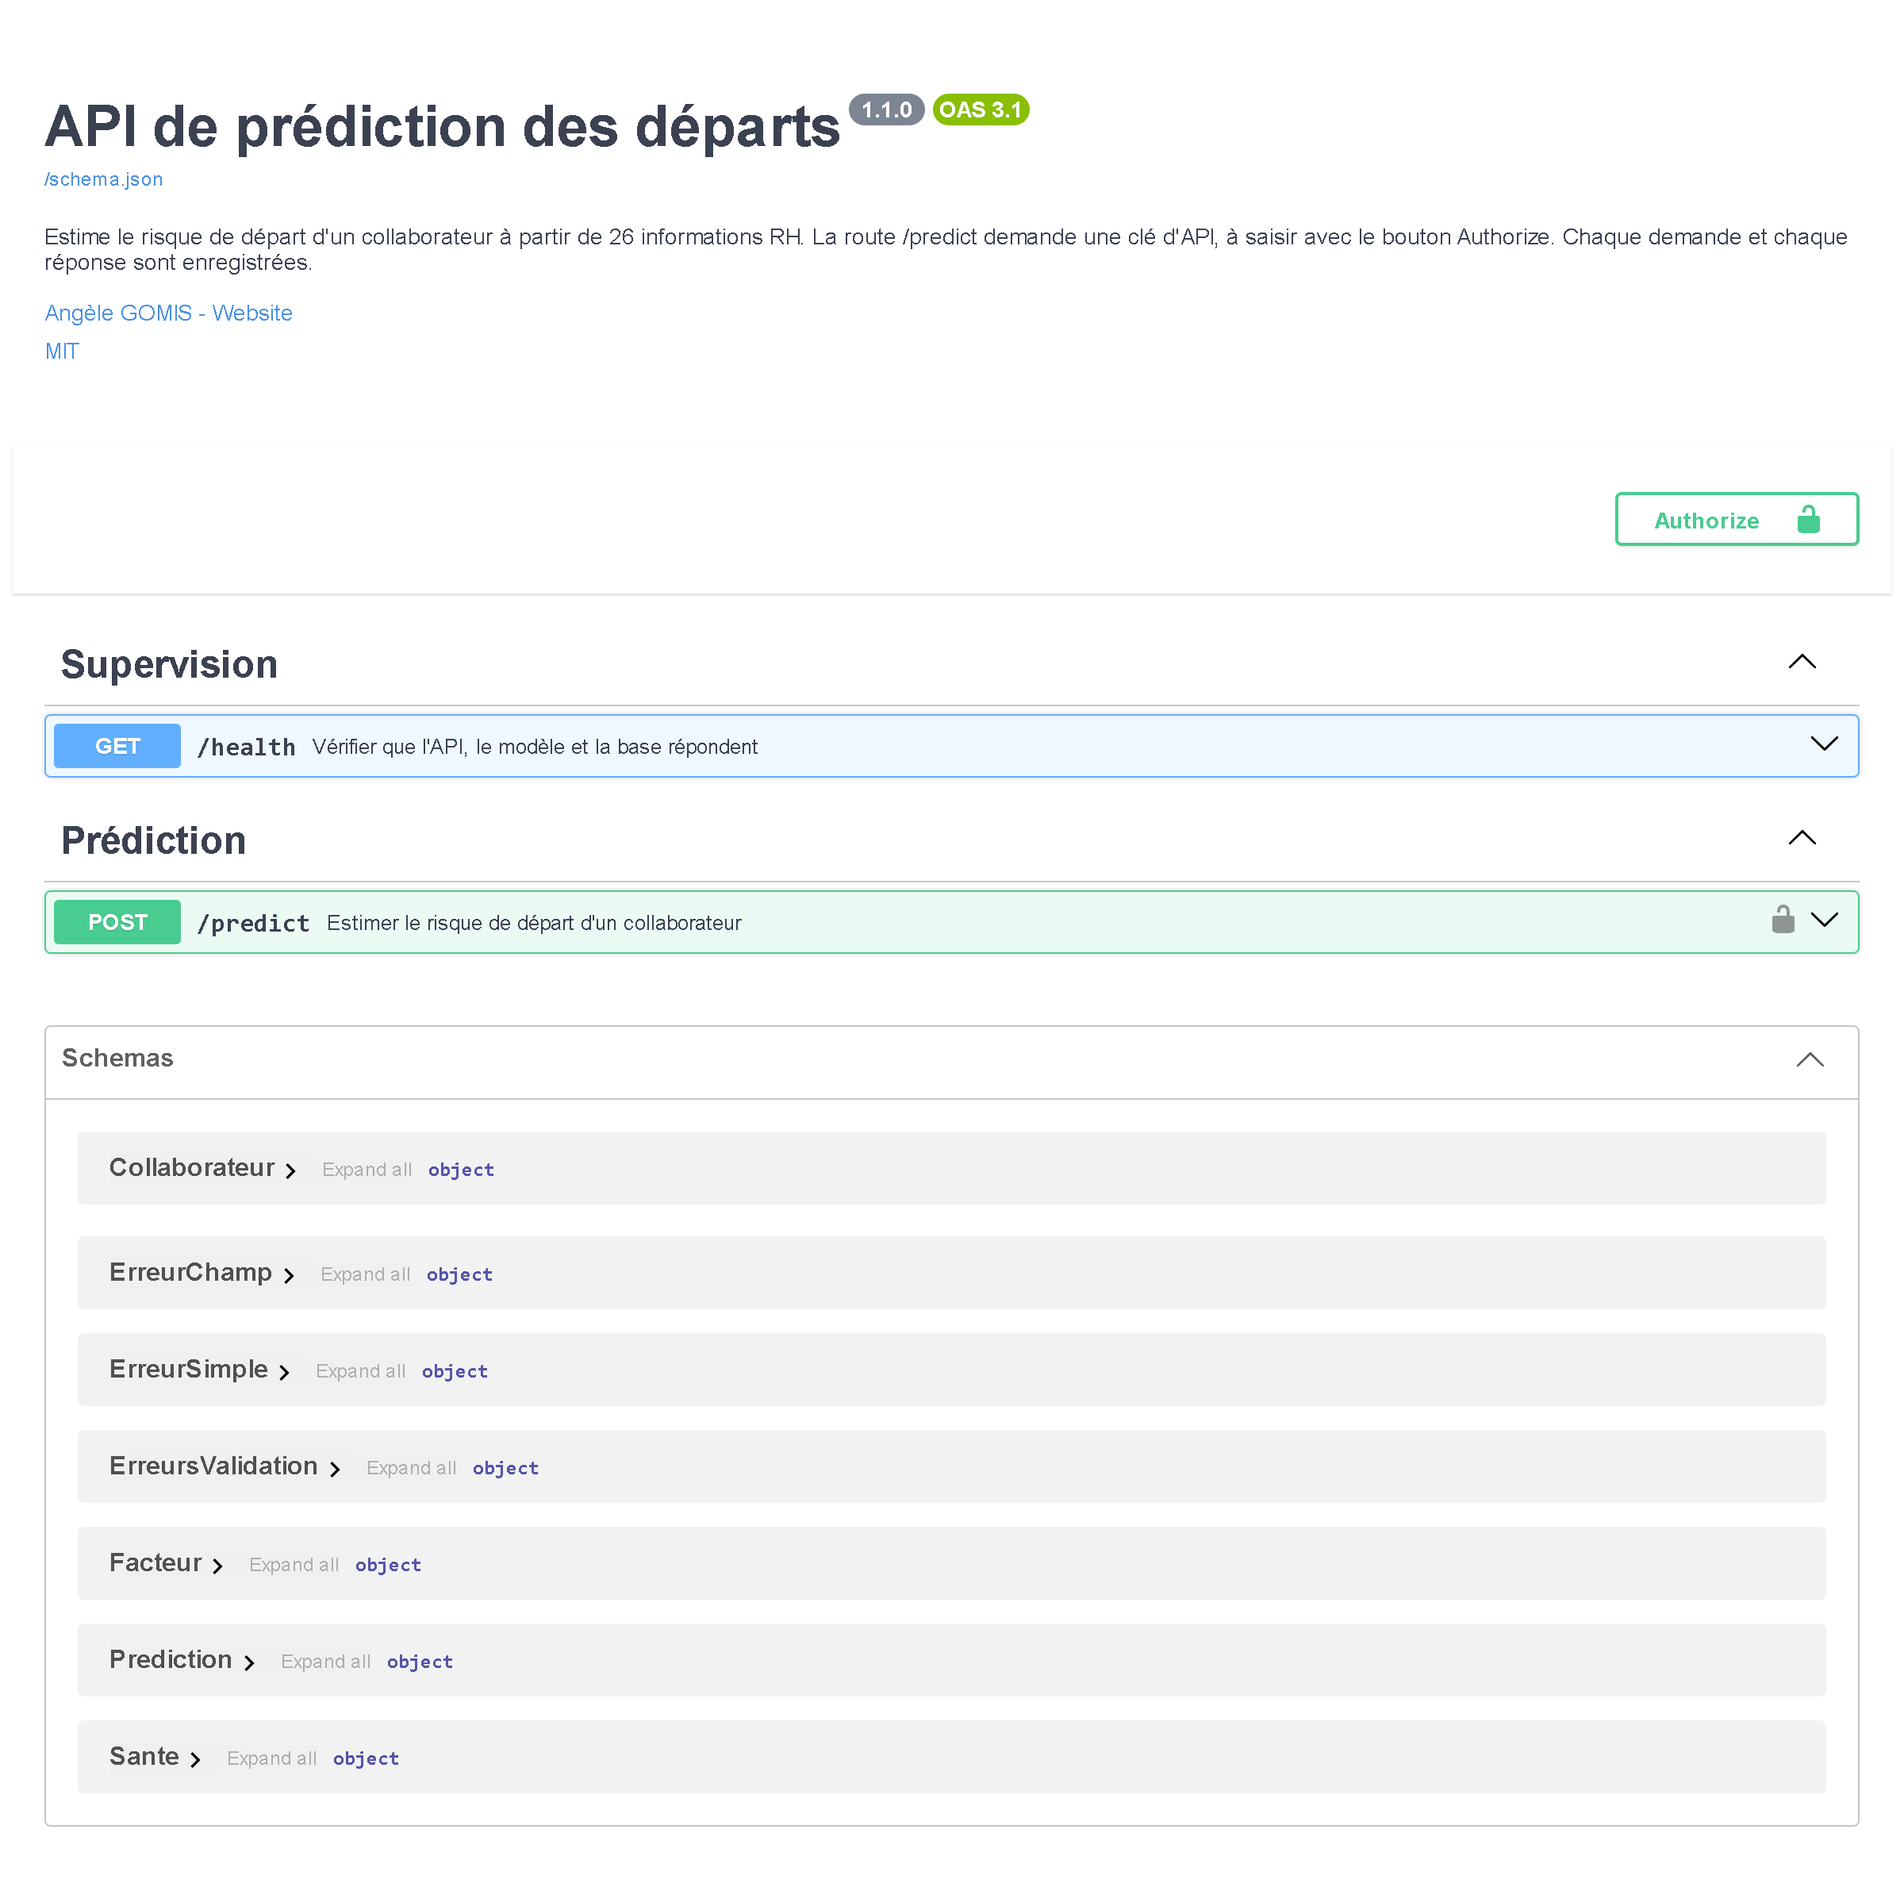
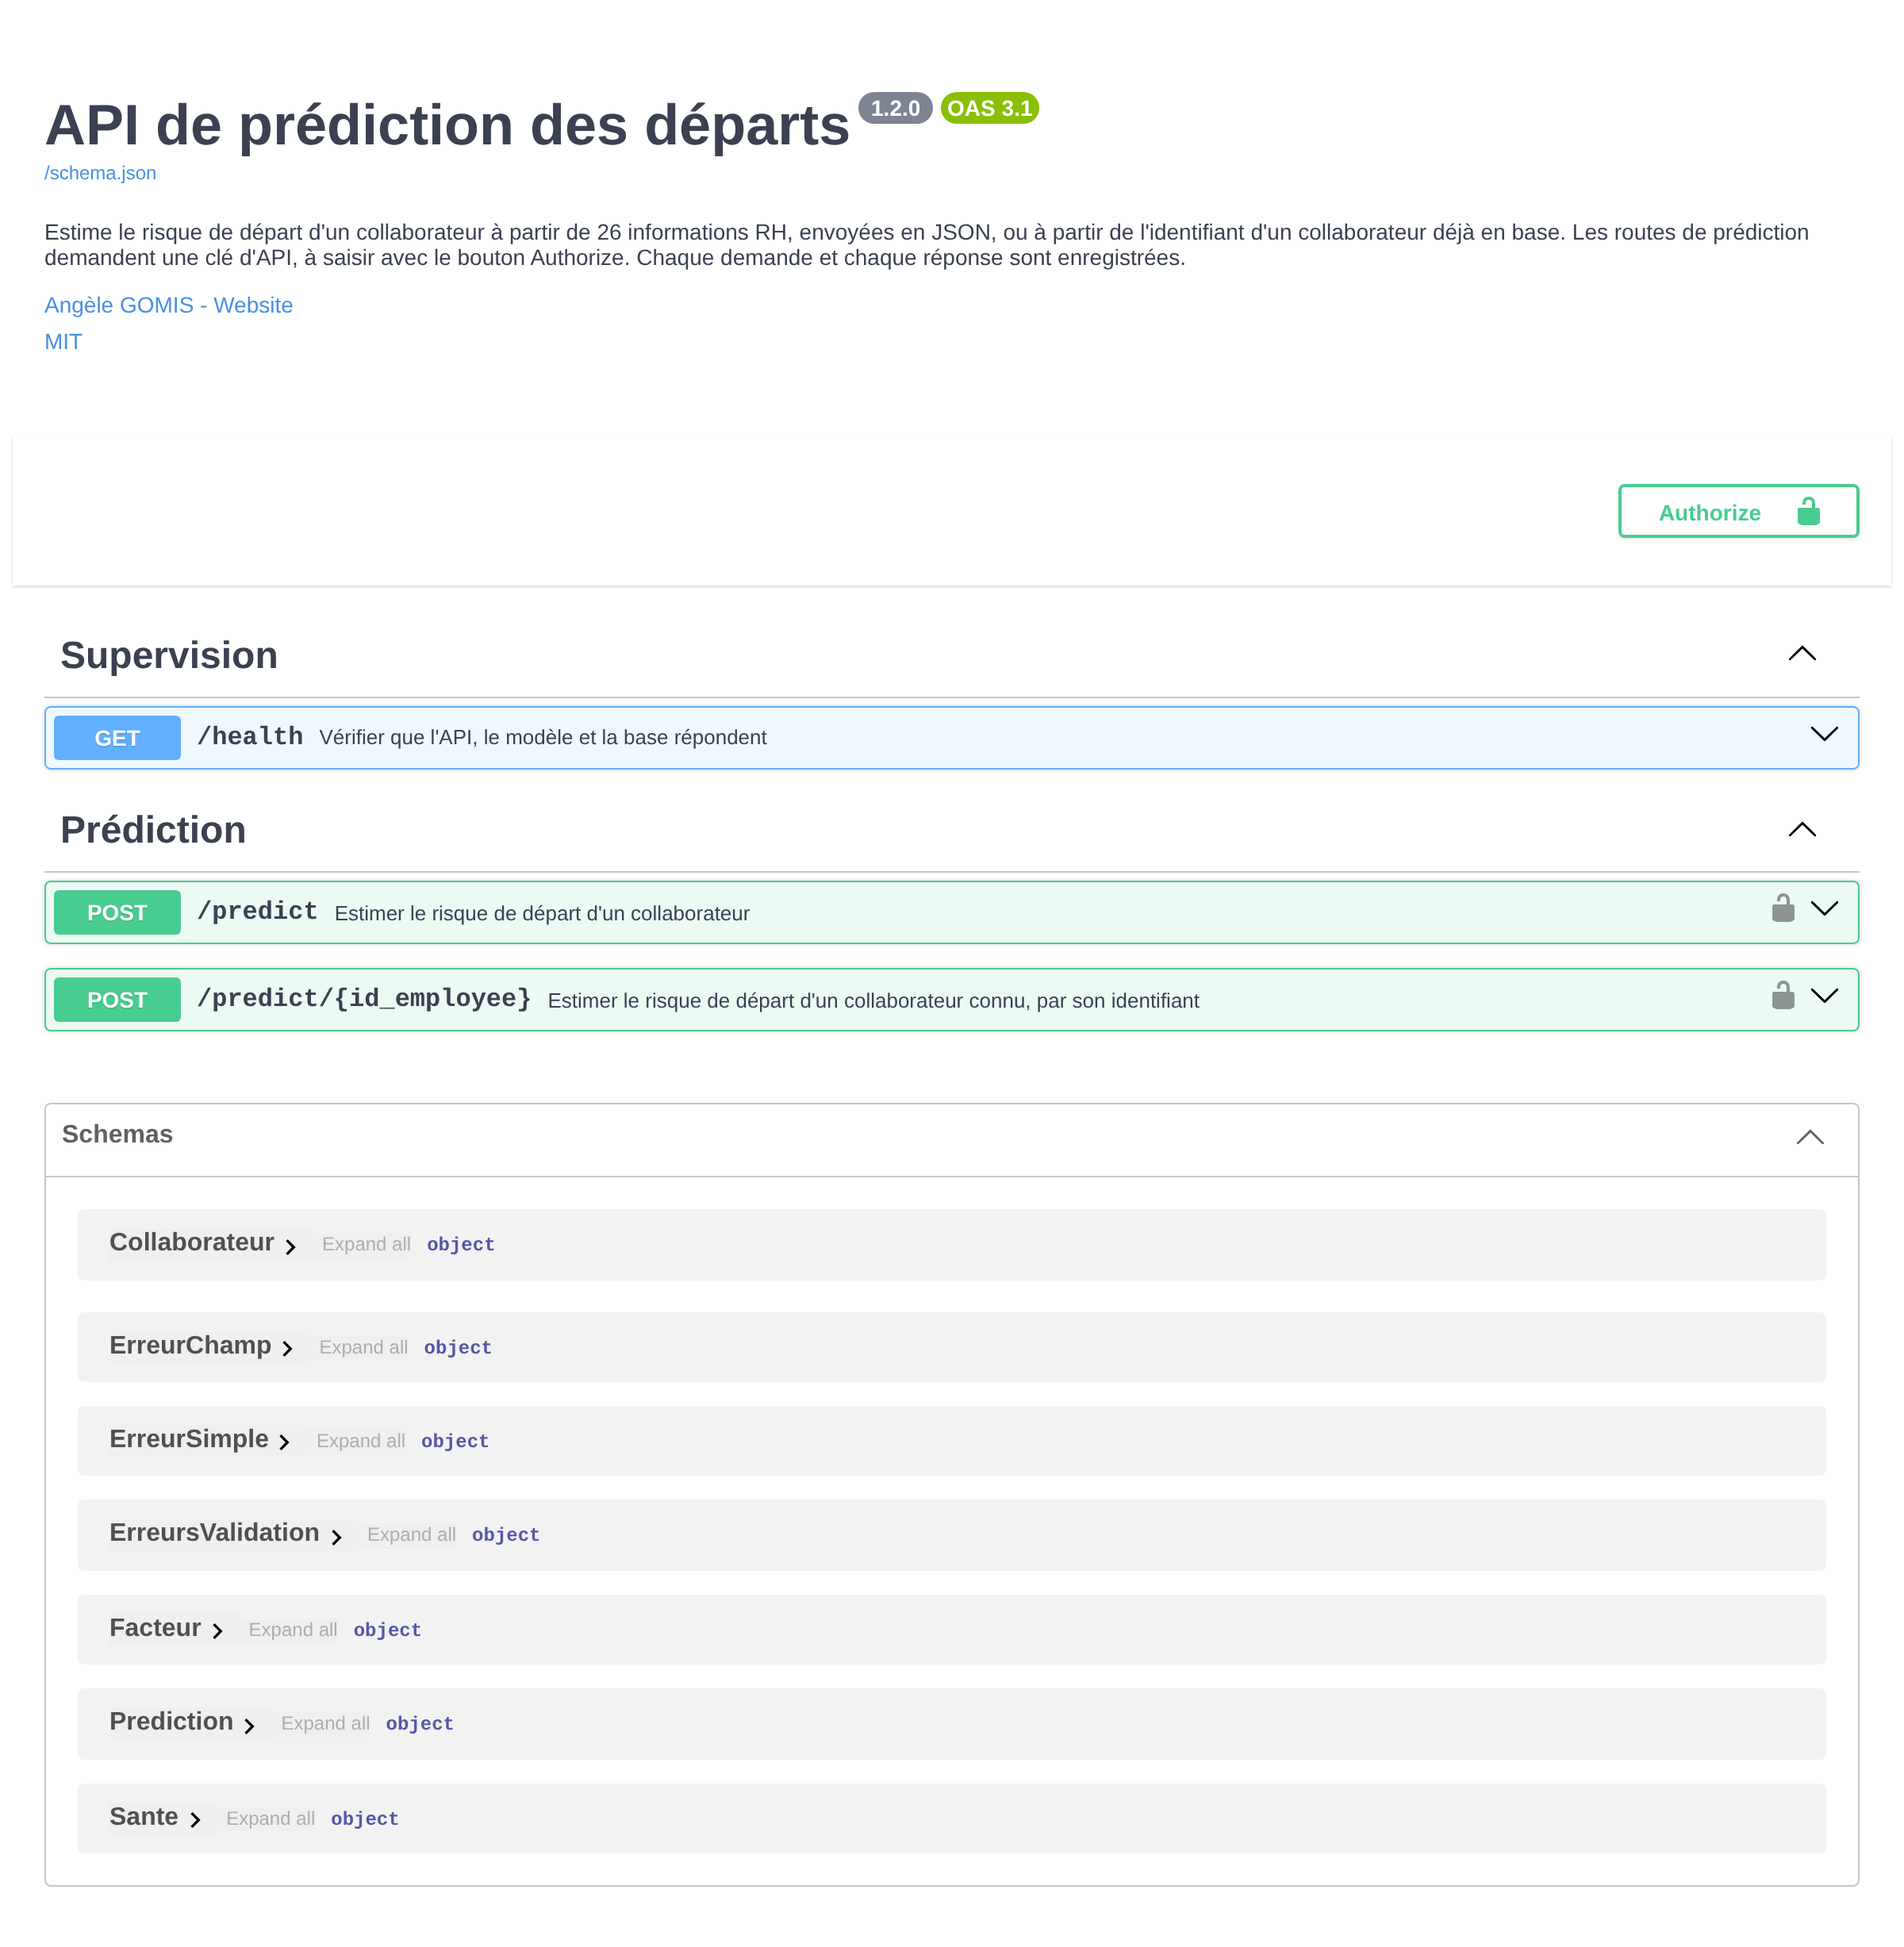
docs: met à jour la capture de Swagger et le rapport de couverture

diff --git a/docs/rapport_couverture.md b/docs/rapport_couverture.md
@@ -1,9 +1,11 @@
 | Name                             |    Stmts |     Miss |   Branch |   BrPart |    Cover |   Missing |
 |--------------------------------- | -------: | -------: | -------: | -------: | -------: | --------: |
-| src\\api\\application.py         |       59 |        0 |        2 |        0 |     100% |           |
+| src\\api\\application.py         |       68 |        0 |        4 |        0 |     100% |           |
+| src\\api\\documentation.py       |       18 |        0 |        0 |        0 |     100% |           |
 | src\\api\\erreurs.py             |       13 |        0 |        0 |        0 |     100% |           |
 | src\\api\\securite.py            |       23 |        0 |        2 |        0 |     100% |           |
 | src\\bdd\\initialisation.py      |       41 |        0 |        2 |        0 |     100% |           |
+| src\\bdd\\lecture.py             |        9 |        0 |        0 |        0 |     100% |           |
 | src\\bdd\\modeles.py             |       37 |        0 |        0 |        0 |     100% |           |
 | src\\bdd\\session.py             |       10 |        0 |        0 |        0 |     100% |           |
 | src\\config.py                   |       35 |        0 |        0 |        0 |     100% |           |
@@ -18,6 +20,6 @@
 | src\\schemas\\collaborateur.py   |       52 |        0 |        6 |        0 |     100% |           |
 | src\\schemas\\prediction.py      |       30 |        0 |        0 |        0 |     100% |           |
 | src\\services\\prediction.py     |       45 |        0 |        0 |        0 |     100% |           |
-| **TOTAL**                        |  **529** |    **0** |   **18** |    **0** | **100%** |           |
+| **TOTAL**                        |  **565** |    **0** |   **20** |    **0** | **100%** |           |
 
 6 empty files skipped.
